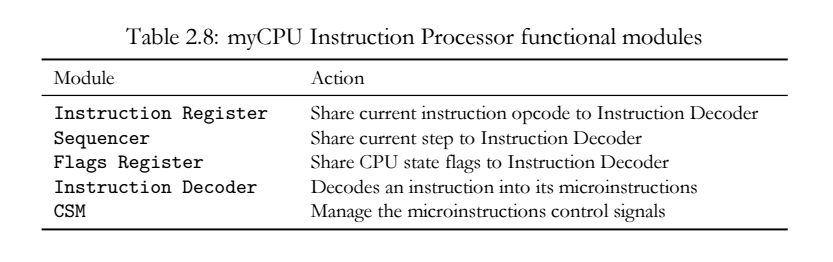
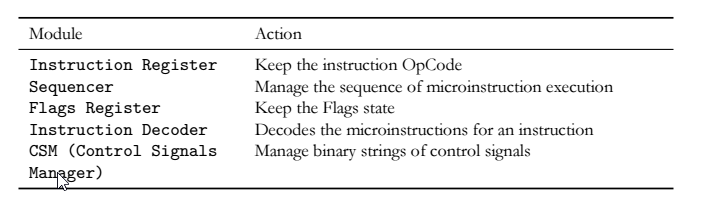
Update Instruduction page content and related pictures

diff --git a/pages/en/mycpu/introduction.md b/pages/en/mycpu/introduction.md
@@ -317,14 +317,16 @@ In the next table you can find a brief list of myCPU digital features. Some of t
 </figure>
 
 #### The Buses
-The myCPU uses only two buses to facilitate data sharing and connectivity between modules and functional blocks: the **Control Bus** and the **Data Bus**, following the Von Neumann Bus Architecture, where data and memory addresses are shared on the same bus. In the myCPU design is pointed as the Data Bus. Despite its basic design, it is important for students and learners to take note of this aspect of the myCPU design. Something like a dedicated **Address Bus** is only present in the connection between the MAR and SRAM modules.
+The myCPU uses only two buses to facilitate data and control signals sharing, and connectivity between modules: the **Control Bus** and the **Data Bus**. The myCPU design follows the "Von Neumann Bus Architecture", where data and memory addresses are shared over the same bus, being the Data BUS in the myCPU design. Despite the myCPU basic design, is important for students or beginners to take note of this particular aspect of the myCPU. Something like a dedicated **Address Bus** is only present in the connection between the MAR and SRAM modules.
 {: style="text-align: justify"}
 
-The Data Bus supports data lengths up to 16 bits, which would be enough for future releases of the myCPU using the same BUS module board design or would be enough to design custom modules or modules prototypes supporting handle more than 8 bits. With 16 bits, we can address up to 64Kb, which satisfies the requirements of a very basic CPU like myCPU, and more.
-Due to the 8-bit nature of the myCPU would be enough use just 8 bits for data exchange, However, this may result a limitation by the need of multiple fetch cycles to manage 16 bits data. The Management of 16 bits of data using an 8 bits data transfer requires at least two clock cycles for each exchange of data between registers and memory, so a 16 bits Data BUS is a very interesting feature for a learning platform like the myCPU and is a essential feature for future releases like the myCPU256 or the myCPU2K.
+The Data Bus supports data lengths up to 16 bits, which will be enough for future releases of the myCPU using the same BUS module board design, and should be enough to design custom modules or modules prototypes handle more than 8 bits. With 16 bits, we can share values such as addresses up to 64Kb, which satisfies the requirements of a very basic CPU like myCPU, and a more complex cpu in the future.
 {: style="text-align: justify"}
 
-All of the myCPU control signals are transmitted through the **Control Bus**. The Control Bus has a capacity of 32 lines, via a 32-pin connector, although not all of these lines are used for control signals. The voltage regulators located in each bus module utilize the GND and +5v pins of the Control Bus to provide power to the modules. The clock and reset signals, as well as the status flags signals, also travel through the Control Bus.
+Due to the 8-bit nature of the myCPU, could be enough to use only 8 bits for data exchange. However, this may result a limitation by the need of multiple fetch cycles to manage 16 bits of data. The Management of 16 bits of data using 8 bits of data transfer requires at least 2 clock cycles for each exchange of data between registers and memory, so a 16 bits Data BUS is a very interesting feature for a learning platform like the myCPU, and is a essential feature for future releases like the the myCPU2K and beyond.
+{: style="text-align: justify"}
+
+All of the myCPU control signals are transmitted through the **Control Bus**. The Control Bus has a capacity of 32 lines via a 32-pin connector, although not all of these lines are used for control signals. The voltage regulators, located in each bus module board,  uses the GND and +5v pins of the Control Bus to provide power to the modules. The clock and reset signals, as well as the status flags signals, also travel through the Control Bus.
 {: style="text-align: justify"}
 
 The lines included on the control BUS are distributed as indicated in the list below:
@@ -336,43 +338,49 @@ The lines included on the control BUS are distributed as indicated in the list b
 </figure>
 
 #### The Control Signals of myCPU
-The myCPU support up to 23 control signals driving the logic devices of myCPU. 22 of the control signals are managed directly by a dedicated module: the **Control Signals Manager (CSM)**, which sets the corresponding digital state for the control signals sent to each logical device in the myCPU. One of them, the **SQR** signal in internal an handled directly by the Instruction Decoder to control the sequencer cycle.
+The myCPU support up to 23 control signals to drive the logic devices of myCPU. 22 of the control signals are managed directly by a dedicated module: the \textbf{Control Signals Manager (CSM)}, which sets the corresponding digital state for the control signals sent to each logical device in the myCPU. But there's and exception, the \textbf{SQR} control signal is internal an handled directly by the Instruction Decoder to control the instruction cycle length.
 {: style="text-align: justify"}
 
 >More info about control signals can be found at the **[CSM module page](/pages/en/mycpu/modules/csm)**.
 {: style="text-align: justify"}
 
-Knowing the default values of each control signal is essential for a proper understanding of the behavior of the modules. Control signals are the truly key in the interaction between the hardware (modules) and the software (instructions). Instructions are composed by microinstructions, and those microinstructions are binary strings composed by control signals which act directly on the electronics of the modules modifying their logic state.
-{: style="text-align: justify"}
-
-<figure class="center">
-    <img src="{{ site.baseurl }}/img/mycpu/diagrams/mycpu_microinstruction_flow.png" alt="myCPU Control Signals" title="myCPU Control Signals" width="700">
-</figure>
-
-Designing your own custom modules will require a deep understanding of the control signals, their default values and the actions they should produce on the logic components of modules.
-{: style="text-align: justify"}
-
-The below table 2.6 shows the full list of the myCPU control signals.
+The below table shows the full list of the myCPU control signals describing the action produced on the modules.
 {: style="text-align: justify"}
 
 <figure class="center">
     <img src="{{ site.baseurl }}/img/mycpu/tables/myCPU_control_signals.png" alt="myCPU Control Signals" title="myCPU Control Signals" width="700">
 </figure>
 
-##### Signed display mode support
-The myCPU support a 2's complement display mode, its affects basically only to the mode on how the hex/dec decoder display shows binary values, not to the manipulation of a binary value itself. There’s a control signal **UN** which enable the 2's complement display mode.
+Knowing the default values of each control signal is essential for a proper understanding of the behavior of the modules. In the myCPU platform, Control signals are the truly key in the interaction between the hardware (modules) and the software (instructions). The myCPU is based on microprogramming, so instructions are composed by microinstructions, those microinstructions are binary strings composed by control signals acting directly, trough the CSM module, on the electronics of the modules modifying their behavior or logic state.
 {: style="text-align: justify"}
 
-The binary to decimal display shows numbers as unsigned, with a range from **0 to 255,** when the **UN** control signal is LOW. When the **UN** control signal is HIGH, the display shows numbers as signed numbers using 2's complement representation, with a range from **-128 to 127**. This feature is in line with the corresponding feature of the output module in the Ben Eater's project.
+<figure class="center">
+    <img src="{{ site.baseurl }}/img/mycpu/diagrams/mycpu_microinstruction_flow.png" alt="myCPU Control Signals" title="myCPU Control Signals" width="700">
+</figure>
+
+Designing your own custom modules will require a deep understanding of the control signals, their default values and the actions they produce on the logic components of the modules.
+{: style="text-align: justify"}
+
+##### Signed display mode support
+The myCPU support a 2's complement display mode, affecting basically, to the mode on how the hex/dec decoder display shows binary values, not to the manipulation of a binary value itself. There’s a control signal **UN** which enable the 2's complement display mode.
+{: style="text-align: justify"}
+
+When the **UN** control signal is LOW, decimal displays show numbers as unsigned, with a range from \textbf{0 to 255}. When the **UN** control signal goes HIGH, decimal displays show numbers as signed, using 2's complement representation with a range of **-128 to 127**. This feature is in line with the corresponding feature of the output module in the Ben Eater's project.
 {: style="text-align: justify"}
 
 >You should watch the Ben Eater's video about: [Two's complement arithmetic](https://www.youtube.com/watch?v=4qH4unVtJkE){:target="_blank"}
 
 #### The Instruction Cycle
-The myCPU instruction execution is performed through a Instruction cycle that consists of a fetch cycle followed by an execution cycle. The myCPU is a single fetch execution cycle, it means that uses only one fetch cycle to gets the instruction and the argument of the instruction. It is possible thanks to an Instruction Register with a 4+4 bits design, most significative 4 bits for the OpCode of the instruction and less significative 4 bits for the argument. So in a single 8 bits data exchange operation with memory retrieve the instruction and the argument, being the most simplified way to view and understand the execution cycle of a CPU in real time.
+The myCPU instruction execution is performed through an **Instruction cycle** that composed by a **Fetch cycle** followed by an **Execution cycle**. The myCPU is based on single fetch execution cycle, it means that uses only one fetch cycle to get the instruction and the argument of the instruction. This is possible thanks to an Instruction Register with a 4+4 bits design, using the most significative 4 bits for the OpCode of the instruction and the less significative 4 bits for the argument. So, in a single 8 bits data exchange operation with memory are retrieved the instruction plus the argument, being the most simplified way to view and understand the execution cycle of a CPU in real time.
 {: style="text-align: justify"}
 
-Due to the simplicity of the instruction set and program limitations, the myCPU execution cycle does not require any additional specialized phases. The length of the Instruction cycle reach to 8 states or steps. Each step of the instruction cycle requires one clock cycle to complete and executes a single microinstruction.
+Due to the simplicity of the myCPU instruction set and the programming limitations, the myCPU execution cycle does not require any additional specialized phases. The length of the Instruction cycle can reach up to 8 cycle states or steps. Each step of the instruction cycle requires one clock cycle to complete, and executes a single microinstruction.
+{: style="text-align: justify"}
+
+>The myCPU design supports a microinstruction length up to 24 bits, involving 23 control signals. 22 of them are exposed through the Control BUS.
+{: style="text-align: justify"}
+
+The myCPU is a basic approximation of an early CPU with limited capabilities compared to real CPUs. Unlike modern CPUs that can perform multiple instruction cycles simultaneously through pipelining, myCPU can only execute one instruction cycle per instruction. The design of myCPU supports a variable length instruction cycle through the capability to reset the sequencer at a specific step and initiate a new instruction cycle, by sending a \textbf{SQR} control signal from the Instruction decoder to the Sequencer.
 {: style="text-align: justify"}
 
 Next image shows an example of the instruction cycle for the ADD instruction:
@@ -382,40 +390,43 @@ Next image shows an example of the instruction cycle for the ADD instruction:
     <figcaption>ADD Instruction cycle sample diagram</figcaption>
 </figure>
 
->The myCPU design support a microinstruction length up to 24 bits, involving 23 control signals. 22 of them are exposed through the Control BUS.
-{: style="text-align: justify"}
 
-The myCPU is a basic approximation of an early CPU with limited capabilities compared to real CPUs. Unlike modern CPUs that can perform multiple instruction cycles simultaneously through pipelining, myCPU can only execute one instruction cycle per instruction. The design of myCPU supports a variable instruction cycle length through the ability to reset the sequencer at a specific step and initiate a new instruction cycle.
-{: style="text-align: justify"}
-
-The instruction set architecture of myCPU could be described as **RISC (Reduced Instruction Set Computer)** instead of a CISC (Complex Instruction Set Computer) because of the microinstruction based nature of the myCPU execution flow. Each instruction can consume from 2 (the minimal instruction cycle length) up to 8 cycle steps, and probably, it could be upgraded up to 16 steps in next releases. Remember that in the myCPU design each step or state is equivalent to a single clock cycle.
+The instruction set architecture of myCPU could be described as **RISC** (Reduced Instruction Set Computer) instead of a CISC (Complex Instruction Set Computer) because of the microinstruction based nature of the myCPU execution flow. Each instruction can consume from 2 (the minimal instruction cycle length) up to 8 cycle steps, and probably, it could be upgraded up to 16 steps in next releases. Remember that in the myCPU design each step or state is equivalent to a single clock cycle.
 {: style="text-align: justify"}
 
 #### The Flags
-The myCPU design include up to 4 status flags, but only 3 of them are used in the first release. Mainly for the limitations of the ALU module, which is based on simple adders. myCPU uses only: The **Carry Out flag FC**, which correspond with the last carry bit of the adders cascade, the **Zero flag FZ** which is calculated using logic gates and the **Negative flag FN** which correspond to the most significant bit of the ALU value or sign bit in 2's complement value representation. The **Overflow flag FV** is not used, in the first release, although is supported by the flags register. 
+The myCPU design includes 4 status flags related to ALU operations, managed by the Flags Register. Only 3 of them are used in the first release due to the limitations of the ALU module, based on simple adders. These flags are: the **Carry Out flag (FC)**, which correspond with the last carry bit of the adders cascade, the **Zero flag (FZ)** calculated using logic gates and the **Negative flag (FN)** which correspond to the most significant bit of the ALU value or sign bit in 2's complement representation. **Overflow flag (FV)** is not used, in the first release, although is supported by the flags register. 
 {: style="text-align: justify"}
 
 >Only ALU related flags are supported in the first release.
 
 The corresponding control signals are listed below:
 
-1.	**FC: Carry Out flag**
-2.  **FZ: Zero flag**
-3.  **FN: Negative flag**
-4.	**FV: Overflow flag** (not used in this release)
+<figure class="center">
+    <img src="{{ site.baseurl }}/img/mycpu/tables/myCPU_flags.png" alt="myCPU Flags" title="myCPU Flags" width="700">
+</figure>
 
-Flags are a essencial part of the decoding process for the **Conditional Jump Instructions**. The flags combination define the state of the myCPU after each executed instruction and this state can enable the execution of a conditional jump instruction based on that state. In the myCPU first release, only conditional jump instructions for the state of 3 individual flags: FC, FC and FN, are encoded. 
+Flags are an essential part of the decoding process for the **Conditional Instructions**.
+Flags combinations define the status of the myCPU after each executed instruction and that status could enable the execution of a conditional instruction, like a conditional jump which is encoded for a specific flags combination. In the myCPU first release, only conditional jump instructions are possible for a CPU status based on the combination of 3 flags: **FC**, **FZ** and **FN**. 
 {: style="text-align: justify"}
 
 ####  The Instruction processor
-The design of myCPU is based on microprogramming for instruction decoding, meaning that the values resulting from the conversion of an instruction into its equivalent set of microinstructions are stored in an EEProm memory instead of being generated through combinational logic.
+The execution process of an instruction in the myCPU design is based in **Microinstructions** using the **Microprogramming technique**. 
 {: style="text-align: justify"}
 
-The instruction processor is a logic block responsible of process and execute an instruction and involves several logic elements:
+In Microprogramming an instruction is divided into small pieces, called Microinstructions, executed sequentially. Microinstructions are binary strings of control signals exposed to CPU logic components by the CSM (Control Signals Manager) through the Control BUS. In Microprogramming, the set of microinstructions encoded for an ISA (Intruction Set) are called the **Microcode**. The microcode is encoded into a ROM, or into an EEProm memory providing a better way to modify the behavior of an instruction or to design new instructions for the ISA (Instruction Set) of the CPU.
 {: style="text-align: justify"}
 
 <figure class="center">
-    <img src="{{ site.baseurl }}/img/mycpu/tables/myCPU_instruction_processor.png" alt="myCPU Instrucion Processor table" title="myCPU Instruction processor table" width="800">
+    <img src="{{ site.baseurl }}/img/mycpu/diagrams/mycpu_microinstruction_flow.png" alt="myCPU Control Signals" title="myCPU Control Signals" width="700">
+</figure>
+
+In a Microprogramming based CPU, like myCPU, the Instruction Processor is the logic block responsible of 
+decoding an instruction and executing its associated microcode. The Instruction Processor uses the Instruction Decoder for the microinstrucions decoding process of the instruction. The Instruction Processor involves several logic elements, as you can see in the next table:
+{: style="text-align: justify"}
+
+<figure class="center">
+    <img src="{{ site.baseurl }}/img/mycpu/tables/myCPU_instruction_processor.png" alt="myCPU Instrucion Processor table" title="myCPU Instruction processor table" width="600">
 </figure>
 
 <figure class="center">
@@ -423,37 +434,47 @@ The instruction processor is a logic block responsible of process and execute an
     <figcaption>Instruction Processor block</figcaption>
 </figure>
 
-#### Microprogramming
-In the myCPU design a CPU native instruction is decoded into a set of microinstructions, which are a sequence of bits representing the control signals values that can modify the state of the logic devices of the myCPU. Microprogramming is the process to encode the microinstruction equivalent to each step in a instruction cyle to create the corresponding set of microinstructions for every instruction in the instructon set. These microinstructions are then written to an EEPROM memory for later decoding when and instruction is executes.
+In microprogrammning, each instruction is composed by a set of microinstructions executed in a sequence. The Sequencer manage the sequence of execution, each microinstruction is executed at a sequencer step synchronized with the fall state of the clock signal. Because of that, some control signals of the microinstruction cause immediate changes in the CPU state, while others will produce changes during the next rise state of the clock signal.
 {: style="text-align: justify"}
 
-Each instruction in the CPU can consist of multiple microinstructions, with each microinstruction executing during a single sequencer clock cycle. The sequencer counter is enabled during the fall state of the clock signal, allowing microinstructions to be executed during this clock state. Some control signals cause immediate changes in the CPU state, while others produce changes during the next rise state of the clock signal. To maintain good synchronization, certain logical actions in the CPU must occur before others, such as outputting data to the data bus before a register can read and store it. This is accomplished by performing these actions in alternate clock signal states, which allows enough time for the integrated circuits to perform their electronic functions.
+In addition, certain types of instructions like conditional jumps are dependent of the flags state and its microinstructions have to be encoded according to a specific state of flags. Therefore, Microprogramming is the process to encode the microinstruction corresponding to each step of the instruction cycle for an instruction OpCode, with or without the dependency of a specific state of flags.
 {: style="text-align: justify"}
 
-The **Sequencer** determine the current instruction step or state of the instruction cycle.
+In the myCPU the decoding of an instruction is based on the address for the memory in which the microcode is encoded, an AT28C64 EEProm memory for the myCPU. This address is a 13 bits length address generated using the OpCode of the instruction stored at the Instruction Register, the flags status stored at the flags register, the 3 bits encoded value of the current sequencer step, and 2 bits for the memory unit selection because myCPU uses 3 memory units to store the whole 24 bits microinstruction. The bit order is shown in the picture bellow.
 {: style="text-align: justify"}
-
-The **Instruction Register** holds the current **Opcode** of the instruction, which is shared with the Intruction Decoder, and the optional argument for the instruction. The argument can be a literal value or and address point to the memory cell where the values is stored.
-{: style="text-align: justify"}
-
-The **Flags Register**, provides the state flags activated on the myCPU to the decoding process. The myCPU could manage up to  four  flags and each correspond to 1 bit in the order: FV,FZ,FN,FC.
-{: style="text-align: justify"}
-
-So, the decoded microinstruction to execute will be determined by:
 
 <figure class="center">
-    <img src="{{ site.baseurl }}/img/mycpu/tables/myCPU_micro_encoding_parts.png" alt="myCPU Microinstruction encoding parts" title="myCPU Microinstruction encoding parts" width="800">
+    <img src="{{ site.baseurl }}/img/mycpu/diagrams/mycpu_encoding_parts.png" alt="myCPU Encoding Parts" title="myCPU Encoding Part" width="600">
 </figure>
 
-The **Memory Selection** bits determine which memory unit will be used to write (during programming) or read (during decoding) each byte of a microinstruction. In the myCPU design, microinstruction consists of 3 bytes or 24 bits, which are handled by three memory units. To understand the memory selection and the order of the encoding value parts during memory programming, it is necessary to review both the Instruction decoder schematic and the programmer code.
+The **Sequencer** determine the current step or state of the instruction cycle, in the myCPU the sequence is up to 8 steps. The sequencer step value is used in a multiplexed form as part of the encoding address, so is 3 bits length.
 {: style="text-align: justify"}
+
+The **Instruction Register** holds the current **Opcode** of the instruction in execution. In myCPU the length for the opcode is 4 bits because only is used the 4 most significative bits of the instruction register for the opcode, being the less significative 4 bits is for the argument.
+{: style="text-align: justify"}
+
+The **Flags Register**, keeps the myCPU status of the flags, in myCPU only 4 flags are available so the length for this address part is 4 bits because is not multiplexed.
+{: style="text-align: justify"}
+
+Therefore, the decoding address for the microinstruction to execute  will be determined by:
+
+<figure class="center">
+    <img src="{{ site.baseurl }}/img/mycpu/tables/myCPU_micro_encoding_parts.png" alt="myCPU Microinstruction encoding parts" title="myCPU Microinstruction encoding parts" width="600">
+</figure>
+
+The **Memory Selection** bits determine which memory unit will be used to encode or decode each byte part of a microinstruction. In the myCPU design, a microinstruction is composed of 24 bits or 3 bytes, which are handled by three memory units.
+{: style="text-align: justify"}
+
+<figure class="center">
+    <img src="{{ site.baseurl }}/img/mycpu/diagrams/mycpu_micro_parts.png" alt="myCPU Microinstruction parts" title="myCPU Microinstruction parts" width="600">
+</figure>
 
 <figure class="center">
     <img src="{{ site.baseurl }}/img/mycpu/schematics/myCPU_Decoder_AddrBitOrder.png" alt="Instruction decoder address bit order" title="Instruction decoder address bit order" width="400">
     <figcaption>Instruction Decoder address bit order</figcaption>
 </figure>
 
-The binary encoding value is a **13 bits address** that specifies the location of the microinstruction to be executed during a sequence step. This microinstruction word is then passed to the control signals manager, which sends the appropriate signal states to the logic devices of the myCPU. The instruction encoding is covered by 8Kx8 EEProm memories with an address support up to 13 bits (A0-A12).
+The decoded microinstruction is passed to the **CSM** (control signals manager), which is responsible to expose the appropriate control signal values to the logic components of the myCPU.
 {: style="text-align: justify"}
 
 #### Testing and Debugging the myCPU
